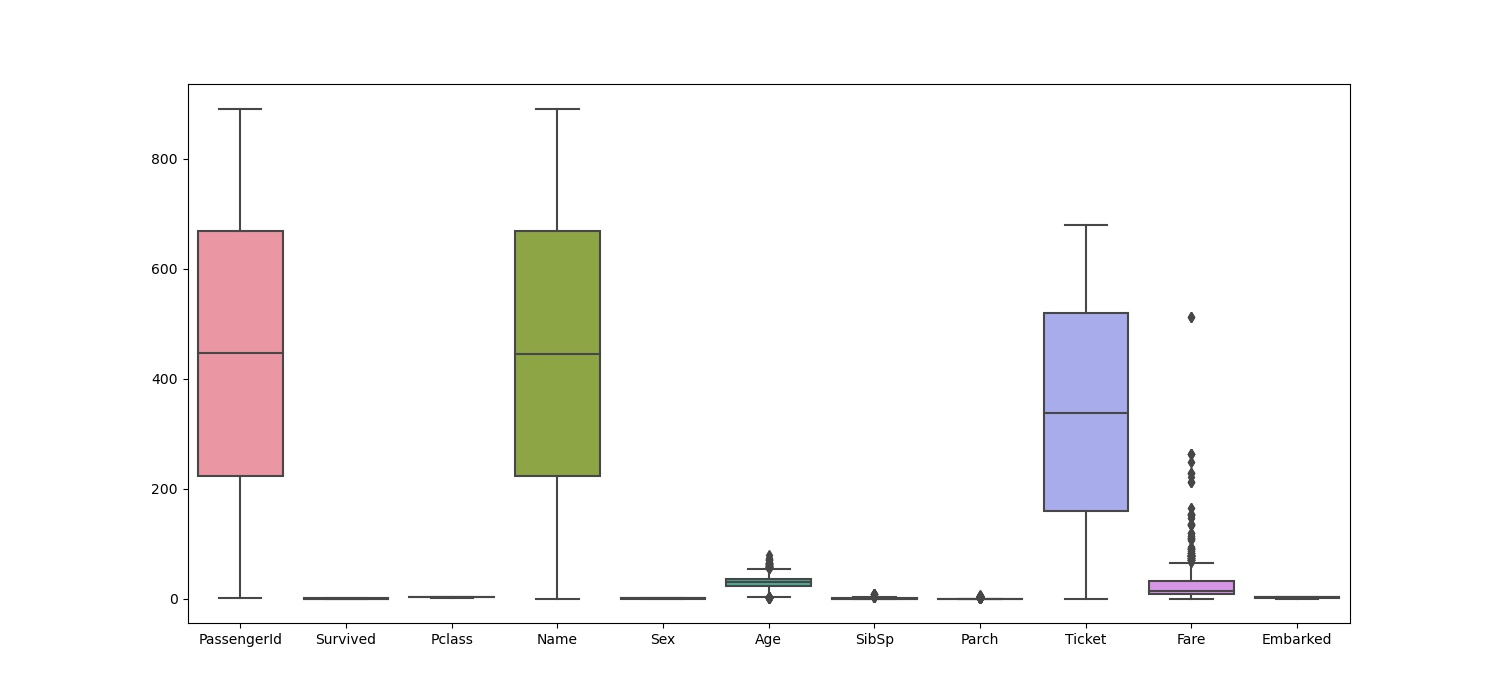
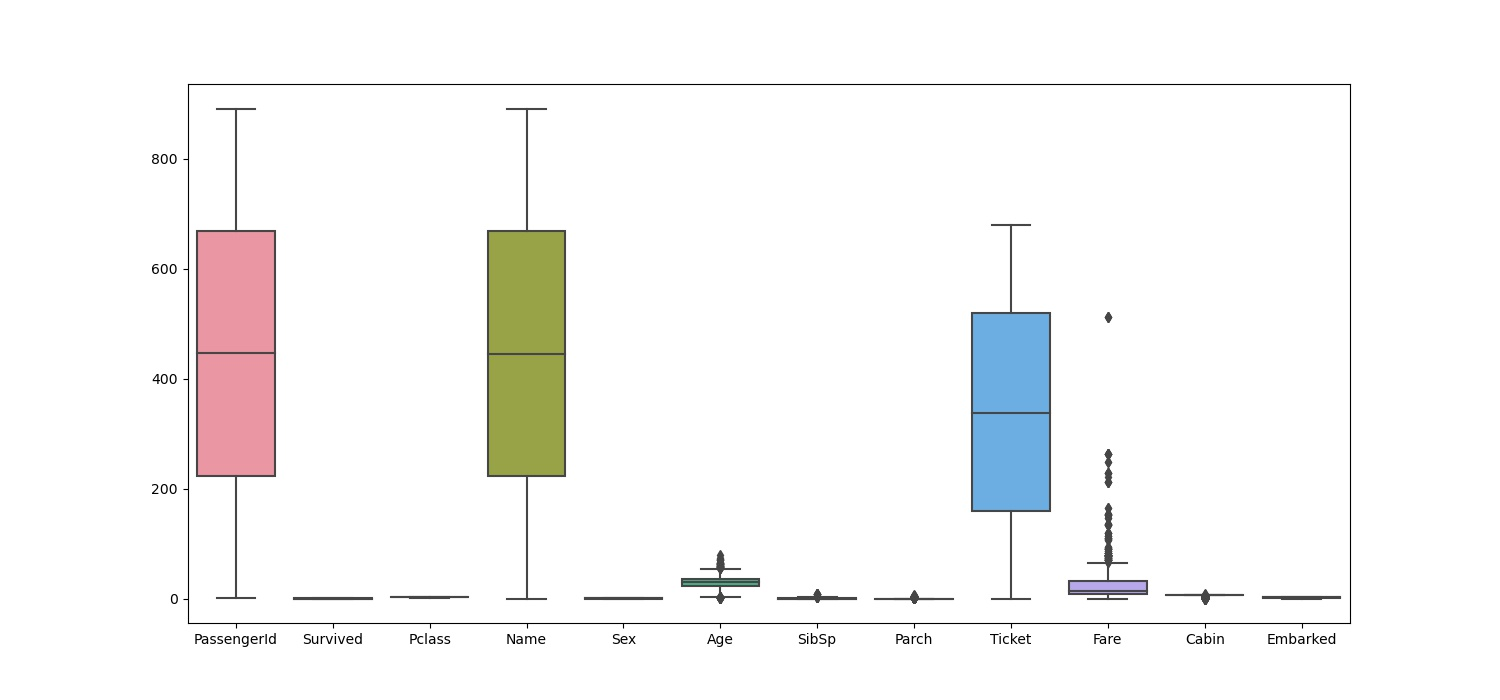
Update lab5

diff --git a/Lab5/Ex_titanic_prediction.py b/Lab5/Ex_titanic_prediction.py
@@ -10,14 +10,15 @@ import matplotlib as mpl
 import matplotlib.pyplot as plt
 import seaborn as sns
 
-#import ML models
+#Import ML models
 from sklearn.linear_model import LogisticRegression
 from sklearn.ensemble import AdaBoostClassifier
+from sklearn.tree import DecisionTreeClassifier
 
-# Import train_test_split function
+#Import train_test_split function
 from sklearn.model_selection import train_test_split
 
-# Import scikit-learn metrics module for accuracy calculation
+#Import scikit-learn metrics module for accuracy calculation
 from sklearn import metrics
 
 #Import LabelEncoder
@@ -76,13 +77,9 @@ def logistic_regression(X_train,y_train,X_test,y_test):
         Input: X_train,y_train,X_test,y_test - DataFrame
         Output: The accuracy score of logistic regression
     '''
-    # Create Logistic Regression object
     lr = LogisticRegression(max_iter=2000)
-    # Train Logistic Regression
     lr = lr.fit(X_train, y_train)
-    # Predict the response for test dataset
     y_pred = lr.predict(X_test)
-    # Model Accuracy, how often is the classifier corret?
     return metrics.accuracy_score(y_test, y_pred)
 
 #AdaBoostClassifier
@@ -97,12 +94,25 @@ def adaboost(X_train,y_train,X_test,y_test):
     y_pred_abc = abc.predict(X_test)
     return metrics.accuracy_score(y_test, y_pred_abc)
 
+#Decision Tree Classifier
+def decision_tree(X_train,y_train,X_test,y_test):
+    '''
+        Purpose: Perform Decision Tree Classifier
+        Input: X_train, y_train, X_test, y_test - DataFrame
+        Output: The accuracy score of Decision Tree
+    '''
+    clf = DecisionTreeClassifier()
+    clf = clf.fit(X_train, y_train)
+    y_pred = clf.predict(X_test)
+    return metrics.accuracy_score(y_test, y_pred)
+
 #Main function
 def main():
     ##1. Load the dataset
     path='https://raw.githubusercontent.com/duynguyenhcmus/Py4DS/main/Lab5/\
 Py4DS_Lab5_Dataset/titanic_train.csv'
     df=pd.read_csv(path)
+
     #Print the head of dataframe
     print(df.head())
     print('='*80)
@@ -124,30 +134,45 @@ Py4DS_Lab5_Dataset/titanic_train.csv'
     print('='*80)
     '''
         We can notice outliers in Fare features as the max is way too high comparing
-        with Q3.
+        to Q3.
     '''
 
     ##2. Handling Missing values
     #Fill in the missing values of Age feature with mean
     df['Age']=df['Age'].fillna(round(df['Age'].mean()))
+    '''
+        We can fill in the missing values of Age feature with median
+    '''
 
     #Print Cabin value_counts
     print(df['Cabin'].value_counts())
     print('='*80)
+    '''
+        Cabin is important features contributing to the results. So we will fill
+        in null value with another values (N). And we take the first letter of 
+        cabin so it's easier to do label-encoding.
+    '''
 
     #Print Embarked value_counts
     print(df['Embarked'].value_counts())
     print('='*80)
+    '''
+        As we notice, 'S' values has the highest number. So we should fill in
+        the null values with S, which is the mode of Embarked feature.
+    '''
 
     #Fill in the missing values of Embarked feature with mode
     df['Embarked']=df['Embarked'].fillna('S')
 
-    #Drop Cabin columns
-    df=df.drop(['Cabin'],axis=1)
+    #Fill in missing values with N and first letter.
+    df['Cabin']=df['Cabin'].apply(lambda x: x[0] if pd.notnull(x) else 'N')
 
     #Check for missing values
     print(df.info())
     print('='*80)
+    '''
+        There are no null values in the DataFrame
+    '''
 
     #Label-encoding
     df=label_encoder(df)
@@ -157,20 +182,21 @@ Py4DS_Lab5_Dataset/titanic_train.csv'
     df.drop_duplicates(subset = df.columns.values[:-1], keep = 'first', inplace = True)
     print('Shape of dataframe after drop duplicates: ',df.shape)
     print('='*80)
+    '''
+        As we can see, there is no duplicate values in dataframe.
+    '''
 
     ##4. Exploratory Data Analysis
     eda(df,'Survived')
     '''
-        As we expected, there are lots of outlier in Age and Fare features
+        As we expected, there are lots of outlier in Age and Fare features. We
+        will remove them.
 
         With heatmap, the correlation between survived feature and PassengerID
         is too low (0.005). So we drop this columns.
-
-        We drop column Name also. Because all the values in Name feature are all
-        unique. So the information will be irrelevant.
     '''
     #Drop PassengerId columns
-    df=df.drop(['PassengerId','Name'],axis=1)
+    df=df.drop(['PassengerId'],axis=1)
 
     #Remove Outlier
     df=remove_outlier(df)
@@ -179,8 +205,8 @@ Py4DS_Lab5_Dataset/titanic_train.csv'
     ##5. Splitting Data
     X = df.drop(['Survived'], axis=1)
     y = df['Survived']
-    X_train, X_test, y_train, y_test = train_test_split(X, y, test_size=0.2, random_state=91)
- 
+    X_train, X_test, y_train, y_test = train_test_split(X, y, test_size=0.2, random_state=403)
+
     ##6. Build Models
     #Logistic Regression
     accuracy_logistic=logistic_regression(X_train,y_train,X_test,y_test)
@@ -189,10 +215,15 @@ Py4DS_Lab5_Dataset/titanic_train.csv'
     #Ada Boost Classifier
     accuracy_ada=adaboost(X_train,y_train,X_test,y_test)
     print("Accuracy of AdaBoostClassifier: ", accuracy_ada)
+
+    #Decision Tree Classifier
+    accuracy_decision=decision_tree(X_train,y_train,X_test,y_test)
+    print("Accuracy of Decision Tree: ",accuracy_decision)
     '''
         Summary:
-            Accuracy of Logistic Regression:  0.8275862068965517
-            Accuracy of AdaBoostClassifier:  0.896551724137931
+            Accuracy of Logistic Regression:  0.9
+            Accuracy of AdaBoostClassifier:  0.86
+            Accuracy of Decision Tree:  0.85
     '''
 
 if __name__ == '__main__':
